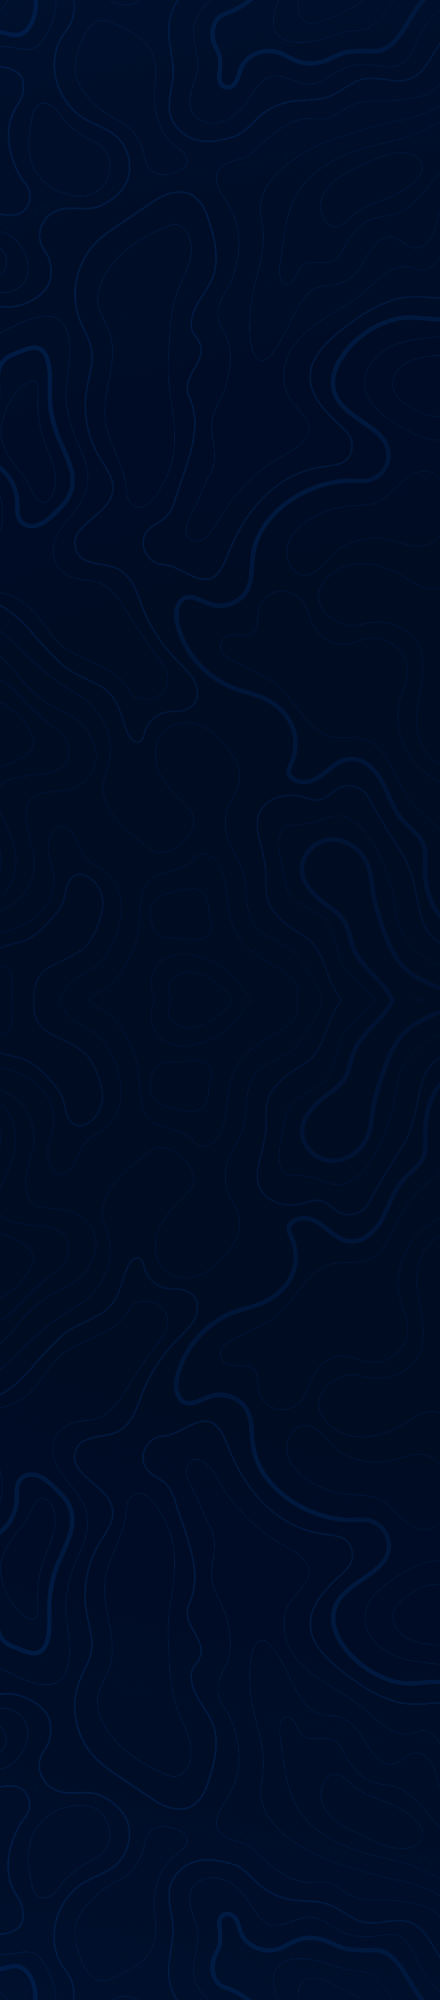
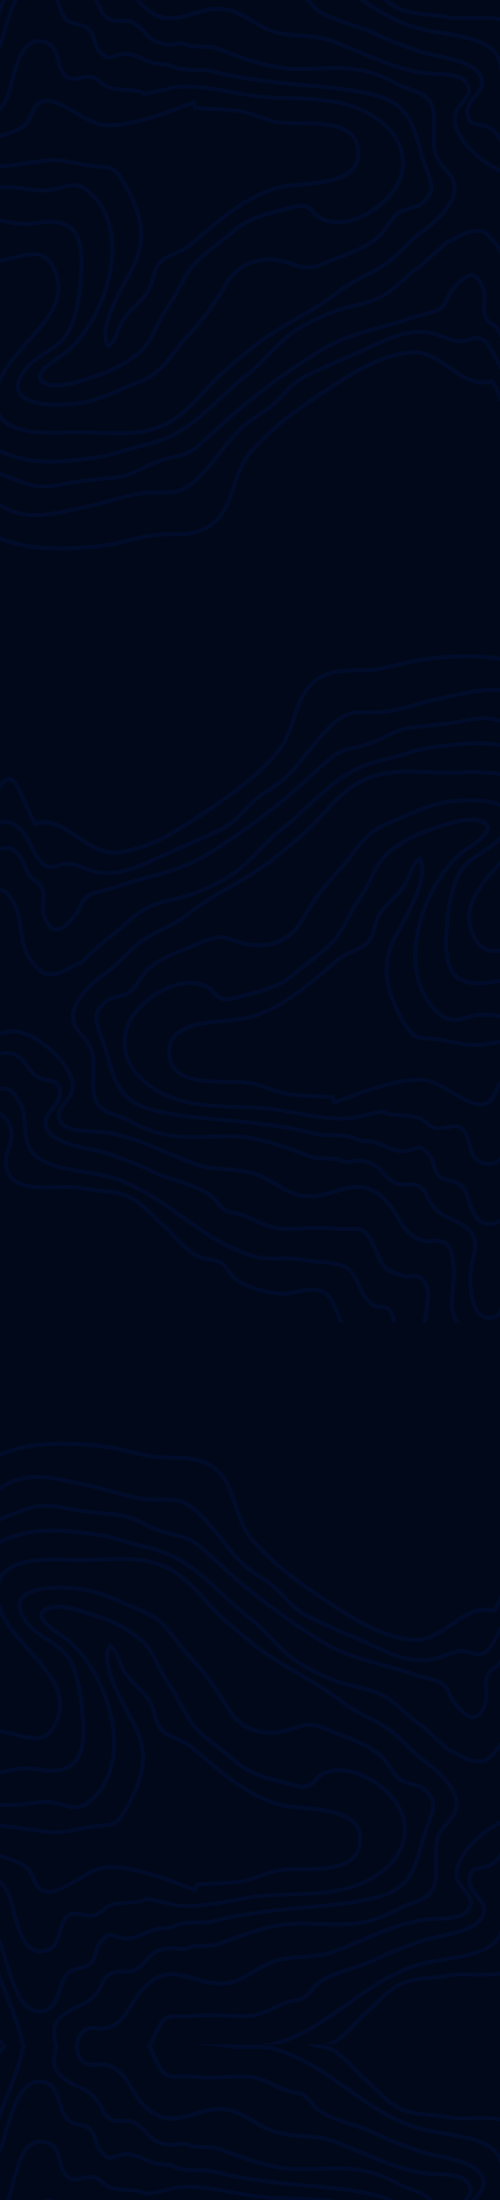
Finalmente foi decidido o PatternDarkM

diff --git a/src/pages/Projects/index.jsx b/src/pages/Projects/index.jsx
@@ -10,9 +10,6 @@ import { FaGithubAlt } from "react-icons/fa";
 import { IoMdEyeOff } from "react-icons/io"; 
 import { IoMdEye } from "react-icons/io"; 
 
-const one = '<';
-const two = ' />';
-
 const index = () => {
 
     useEffect(() => {
@@ -46,7 +43,7 @@ const index = () => {
     <div id='Projects' className='container'>
         <section className="projects">
             <h1 className='Title'>
-                Best Projects_
+                Best Projects
             </h1> 
 
             <div class="project reverse">

diff --git a/src/pages/About/index.jsx b/src/pages/About/index.jsx
@@ -44,7 +44,7 @@ const index = () => {
    <div className='center'>
       <div id='About' className='container background-image'>
          <h1 className='Title'>
-            About Me_
+            About Me
          </h1>
          <div className='center'>
             <div className='about-grid'>

diff --git a/src/Global/Global.css b/src/Global/Global.css
@@ -17,7 +17,7 @@
 
 /* ABOUT IMAGES */
   --image: url('/patternDark.png');
-  --image-M: url('/a.png');
+  --image-M: url('/patternDarkM.png');
 
 /* MAIN COLORS */
   --primary: #20adff;
